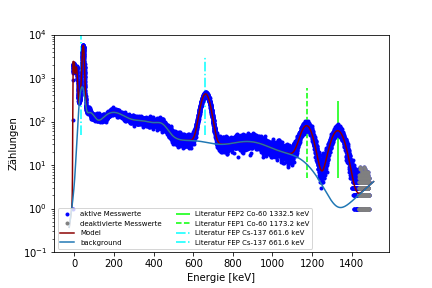
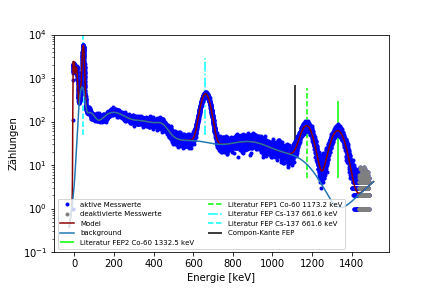
kleine Fehler korrigiert(Unsicherheit)

diff --git a/Detektoren/Messwerte/Mischquelle_sz.py b/Detektoren/Messwerte/Mischquelle_sz.py
@@ -74,7 +74,9 @@ for i in range(Anzahl[0]):
 plt.vlines(Literatur_FEPCO1, ymin = 5, ymax = 300,label = "Literatur FEP2 Co-60 1332.5 keV",color = "lime")
 plt.vlines(Literatur_FEPCO2, ymin = 5, ymax = 600,label = "Literatur FEP1 Co-60 1173.2 keV",color = "lime",linestyle = "--")
 plt.vlines(Literatur_FEP_CS, ymin = 50, ymax = 3000,label = "Literatur FEP Cs-137 661.6 keV",color = "aqua",linestyle = "-.")
-plt.vlines(Literatur_FEP_CS2, ymin = 50, ymax = 10000,label = "Literatur FEP Cs-137 661.6 keV",color = "aqua",linestyle = "-.")
+plt.vlines(46, ymin = 50, ymax = 10000,label = "Literatur FEP Cs-137 661.6 keV",color = "aqua",linestyle = "--")
+plt.vlines(Compton1, ymin = 20, ymax = 700,label = "Compon-Kante FEP")
+
 
 plt.legend(loc='lower left',ncol=2,prop={'size': 7})
 plt.xlabel("Energie [keV]")
